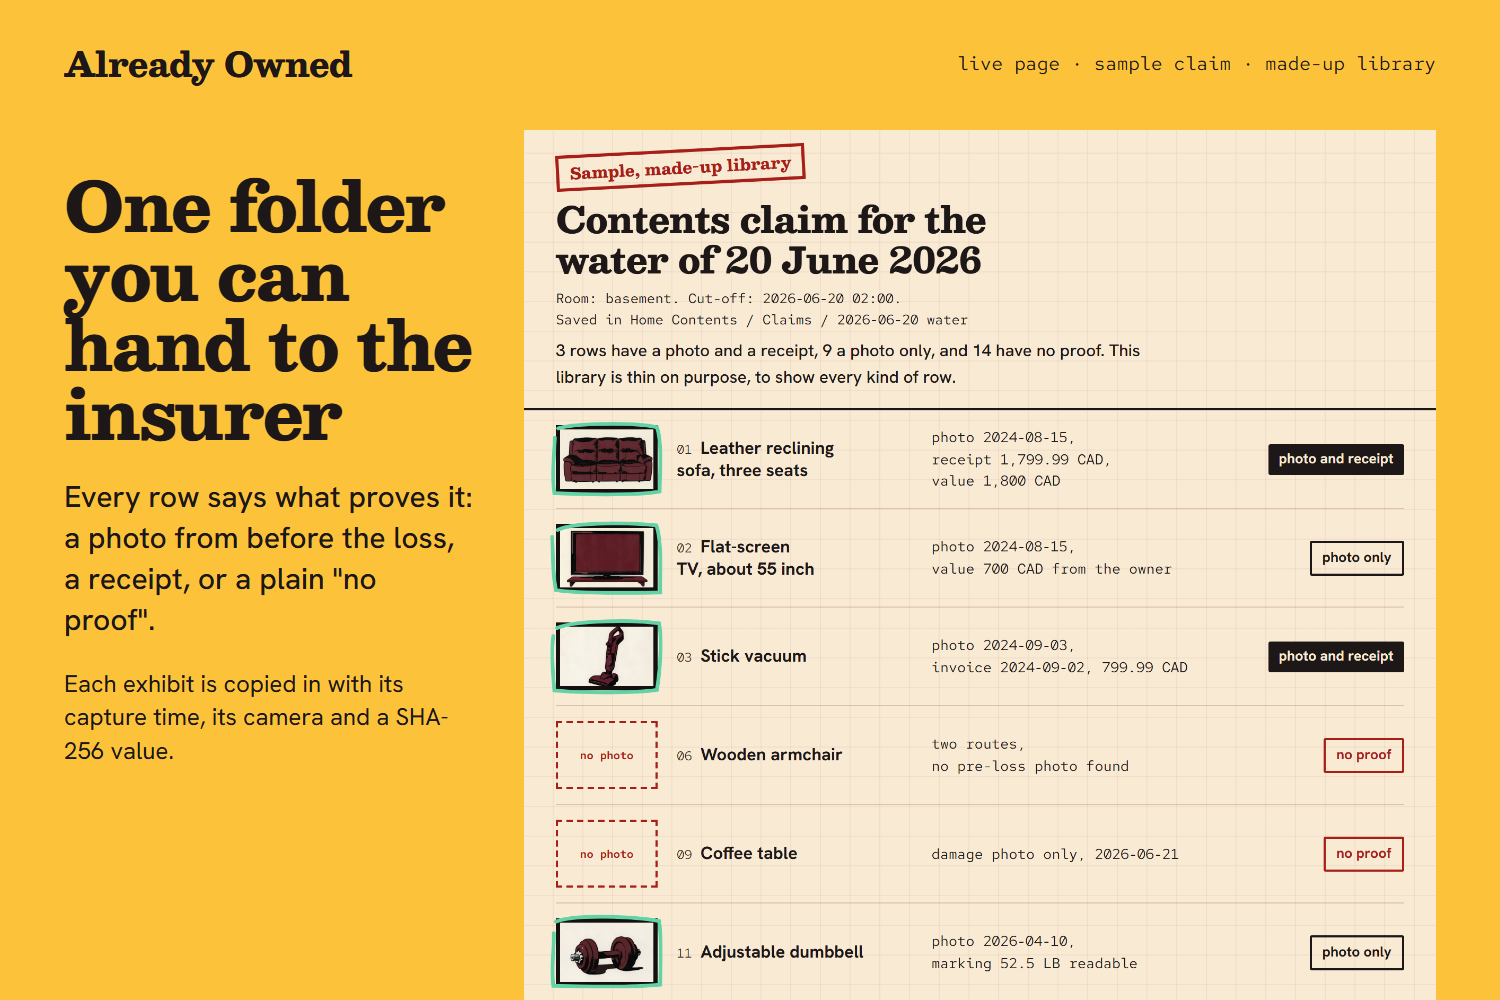
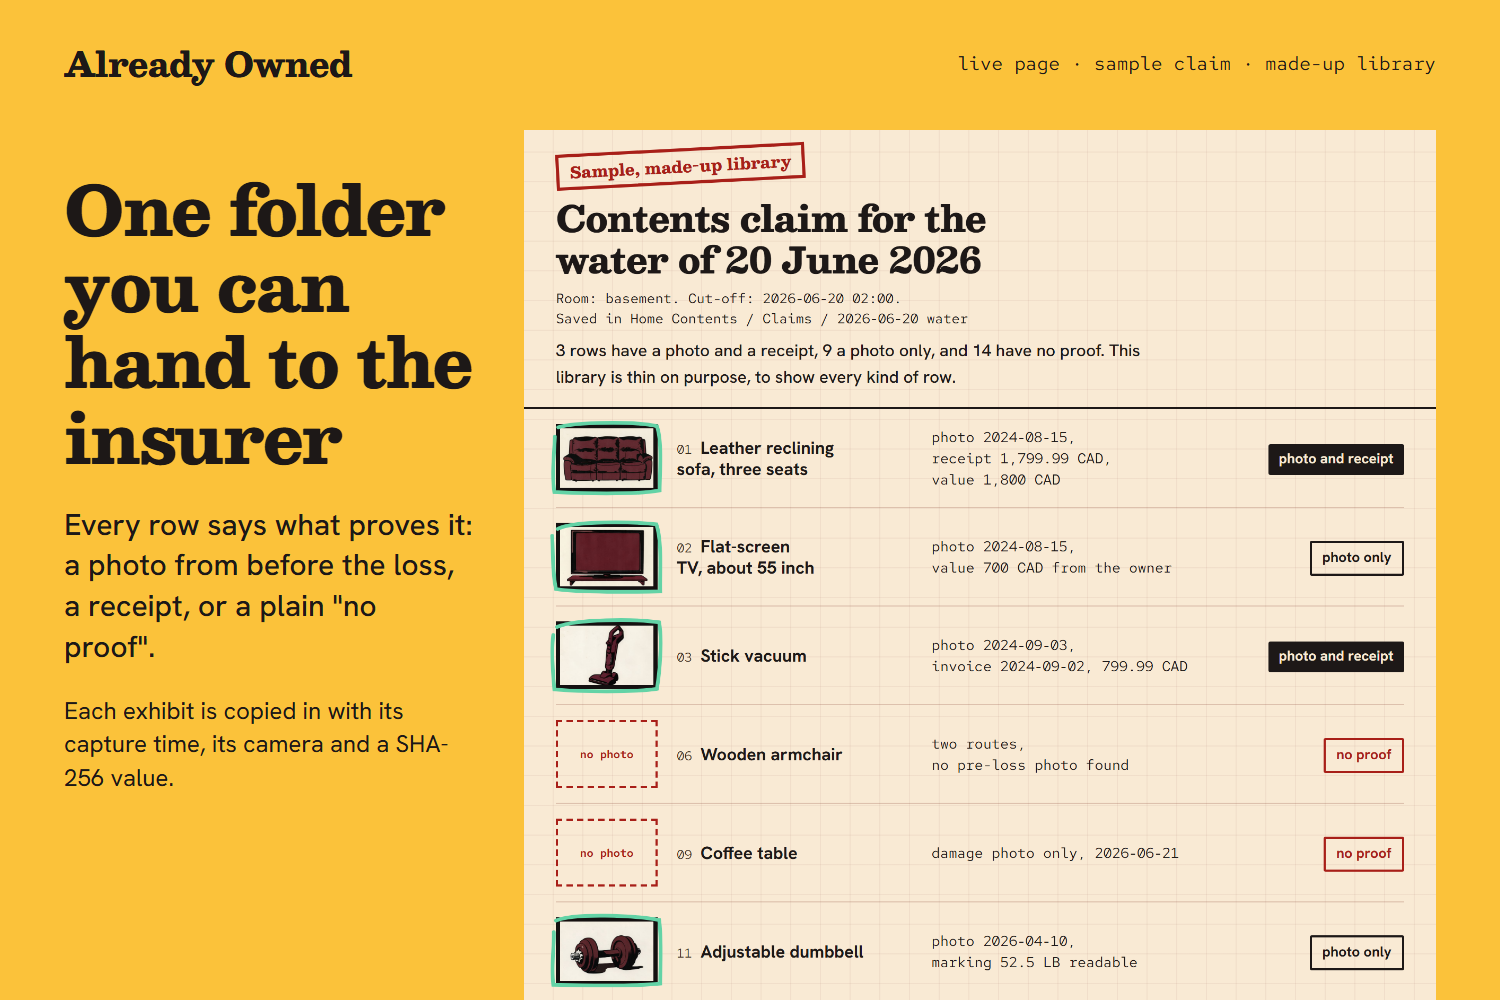
Preview images rebuilt from the live page; heading spacing on the claim folder slide

diff --git a/tools/build_preview.py b/tools/build_preview.py
@@ -181,7 +181,7 @@ def s5_claim():
     <div class='stage' style='bottom:0'>
       <div style='display:grid;grid-template-columns:.62fr 1.38fr;gap:50px;height:100%'>
         <div style='padding-top:40px'>
-          <h1 style='font-size:68px'>One folder you can hand to the insurer</h1>
+          <h1 style='font-size:68px;line-height:1.12'>One folder you can hand to the insurer</h1>
           <p class='lead' style='margin-top:30px;font-size:30px'>Every row says what proves it: a photo from before the loss, a receipt, or a plain "no proof".</p>
           <p style='font-size:24px;margin-top:26px'>Each exhibit is copied in with its capture time, its camera and a SHA-256 value.</p>
         </div>
